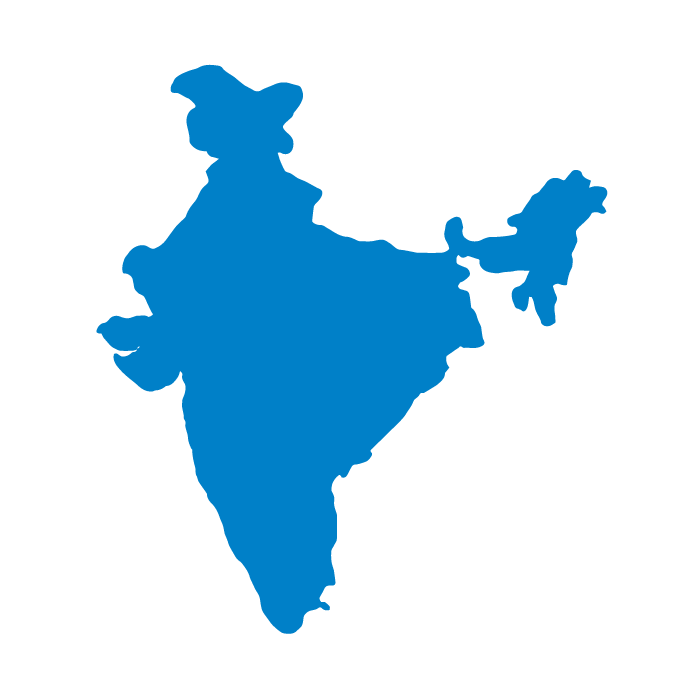
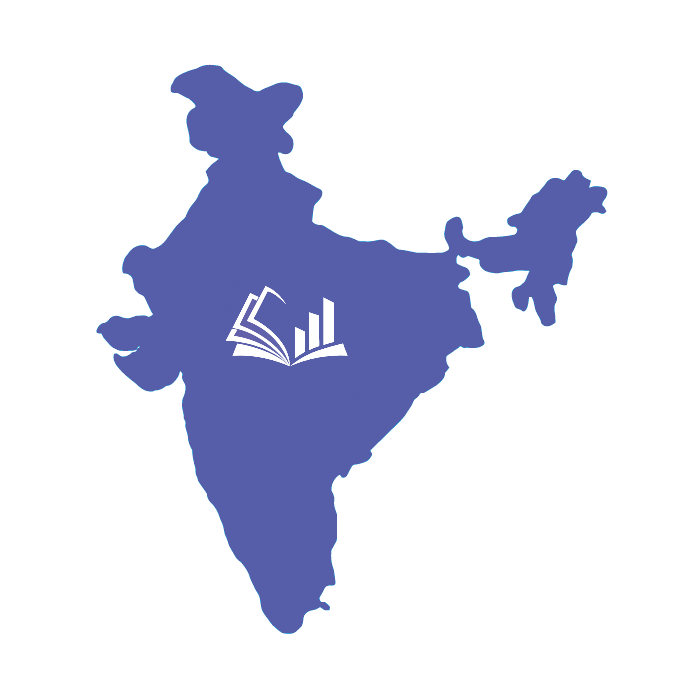
fixed all colors

Changed region(s): [[0.12, 0.09, 0.87, 0.9]]

diff --git a/assets/css/style.css b/assets/css/style.css
@@ -2,9 +2,9 @@
   COMMON css 
 ===========================*/
 @import url("https://fonts.googleapis.com/css?family=Poppins:400,700|Lato:300,400,700&display=swap");
-
 :root {
   --primary-color: #565da9;
+  --accent-color: #361cc1;
 }
 
 body {
@@ -151,16 +151,16 @@ p {
     linear,
     left top,
     right top,
-    from(#7451a6),
-    color-stop(50%, #7451a6),
-    to(#7451a6)
+    from(var(--primary-color)),
+    color-stop(50%, var(--accent-color)),
+    to(var(--primary-color))
   );
   background: linear-gradient(to right, #f2f2f2 0%, #f2f2f2 50%, #f2f2f2 100%);
   background-size: 200%;
 }
 
 .main-btn:hover {
-  color: #fff;
+  /* color: #fff; */
   background-position: right center;
 }
 
@@ -177,10 +177,13 @@ p {
     linear,
     left top,
     left bottom,
-    from(#fe8464),
-    to(#fe6e9a)
+    from(var(--primary-color)),
+    to(var(--accent-color))
   );
-  background: linear-gradient(#fe8464 0%, #fe6e9a 100%);
+  background: linear-gradient(
+    var(--primary-color) 0%,
+    var(--accent-color) 100%
+  );
   width: 150px;
   height: 5px;
   margin-bottom: 10px !important;
@@ -613,7 +616,7 @@ p {
 
 .navbar-nav .nav-item a:hover,
 .navbar-nav .nav-item a.active {
-  color: #565da9;
+  color: var(--primary-color);
 }
 
 @media only screen and (min-width: 768px) and (max-width: 991px),
@@ -633,15 +636,15 @@ p {
     linear,
     left top,
     right top,
-    from(#565da9),
-    color-stop(50%, #565da9),
-    to(#565da9)
+    from(var(--primary-color)),
+    color-stop(50%, var(--accent-color)),
+    to(var(--primary-color))
   );
   background: linear-gradient(
     to right,
-    #565da9be 0%,
-    #565da9 50%,
-    #565da9be 100%
+    var(--primary-color) 0%,
+    var(--accent-color) 50%,
+    var(--primary-color) 100%
   );
   background-size: 200%;
 }
@@ -661,7 +664,7 @@ p {
 
 .sticky .navbar-nav .nav-item a.active,
 .sticky .navbar-nav .nav-item a:hover {
-  color: #fe7a7b;
+  color: var(--primary-color);
 }
 
 .navbar-nav .nav-item a.dropdown-item {
@@ -882,7 +885,7 @@ p {
 }
 
 .single-services .services-content .services-title a:hover {
-  color: #361cc1;
+  color: var(--primary-color);
 }
 
 .single-services .services-content .text-container {
@@ -899,7 +902,7 @@ p {
   margin-top: 30px;
   font-size: 16px;
   font-weight: 400;
-  color: #fe7a7b;
+  color: var(--primary-color);
   -webkit-transition: all 0.3s ease-out 0s;
   transition: all 0.3s ease-out 0s;
 }
@@ -915,7 +918,7 @@ p {
 }
 
 .single-services:hover {
-  border-color: #fe7a7b;
+  border-color: var(--primary-color);
 }
 
 .single-services:hover .services-icon .shape {
@@ -982,11 +985,16 @@ p {
     linear,
     left top,
     right top,
-    from(#fe8464),
-    color-stop(50%, #fe6e9a),
-    to(#fe8464)
+    from(var(--primary-color)),
+    color-stop(50%, var(--accent-color)),
+    to(var(--primary-color))
   );
-  background: linear-gradient(to right, #fe8464 0%, #fe6e9a 50%, #fe8464 100%);
+  background: linear-gradient(
+    to right,
+    var(--primary-color) 0%,
+    var(--accent-color) 50%,
+    var(--primary-color) 100%
+  );
   background-size: 200%;
   height: 50px;
   line-height: 50px;
@@ -1058,7 +1066,7 @@ p {
   text-align: center;
   border-radius: 50%;
   background-color: #fff;
-  color: #fe8464;
+  color: var(--primary-color);
   position: absolute;
   top: 50%;
   left: 50%;
@@ -1137,10 +1145,13 @@ p {
     linear,
     left top,
     left bottom,
-    from(#33c8c1),
-    to(#119bd2)
+    from(var(--primary-color)),
+    to(var(--accent-color))
   );
-  background: linear-gradient(#33c8c1 0%, #119bd2 100%);
+  background: linear-gradient(
+    var(--primary-color) 0%,
+    var(--accent-color) 100%
+  );
 }
 
 .counter-wrapper .single-counter.counter-color-2::before {
@@ -1148,10 +1159,13 @@ p {
     linear,
     left top,
     left bottom,
-    from(#fe8464),
-    to(#fe6e9a)
+    from(var(--primary-color)),
+    to(var(--accent-color))
   );
-  background: linear-gradient(#fe8464 0%, #fe6e9a 100%);
+  background: linear-gradient(
+    var(--primary-color) 0%,
+    var(--accent-color) 100%
+  );
 }
 
 .counter-wrapper .single-counter.counter-color-3::before {
@@ -1303,11 +1317,16 @@ p {
     linear,
     left top,
     right top,
-    from(#fe8464),
-    color-stop(50%, #fe6e9a),
-    to(#fe8464)
+    from(var(--primary-color)),
+    color-stop(50%, var(--accent-color)),
+    to(var(--primary-color))
   );
-  background: linear-gradient(to right, #fe8464 0%, #fe6e9a 50%, #fe8464 100%);
+  background: linear-gradient(
+    to right,
+    var(--primary-color) 0%,
+    var(--accent-color) 50%,
+    var(--primary-color) 100%
+  );
   background-size: 200%;
 }
 
@@ -1404,7 +1423,7 @@ p {
 }
 
 .footer-about .social li a:hover {
-  color: #fe8464;
+  color: var(--primary-color);
 }
 
 .footer-title .title {
@@ -1447,7 +1466,7 @@ p {
 }
 
 .link-wrapper .link li a:hover {
-  color: #fe8464;
+  color: var(--primary-color);
 }
 
 .footer-contact .contact {
@@ -1484,7 +1503,7 @@ p {
 }
 
 .copyright-content a:hover {
-  color: #fe8464;
+  color: var(--primary-color);
 }
 
 /*===== BACK TO TOP =====*/
@@ -1501,11 +1520,16 @@ p {
     linear,
     left top,
     right top,
-    from(#fe8464),
-    color-stop(50%, #fe6e9a),
-    to(#fe8464)
+    from(var(--primary-color)),
+    color-stop(50%, var(--accent-color)),
+    to(var(--primary-color))
   );
-  background: linear-gradient(to right, #fe8464 0%, #fe6e9a 50%, #fe8464 100%);
+  background: linear-gradient(
+    to right,
+    var(--primary-color) 0%,
+    var(--accent-color) 50%,
+    var(--primary-color) 100%
+  );
   background-size: 200%;
   text-align: center;
   z-index: 99;
@@ -2284,5 +2308,23 @@ p {
 }
 
 .footer-copyright .social li a:hover {
-  color: #fe8464;
+  color: var(--primary-color);
+}
+
+.about-content .main-btn {
+  color: white;
+  transition: all 0.5s;
+}
+.about-content .main-btn:hover {
+  color: var(--primary-color);
+  background: white;
+  border: 1.5px solid var(--primary-color);
+}
+
+button[aria-expanded="true"] {
+  color: var(--primary-color);
+}
+
+.contact-us-submit {
+  background: var(--primary-color);
 }

diff --git a/index.html b/index.html
@@ -196,11 +196,10 @@
                   Investor Education
                 </p> -->
                 <a
-                  href="assets/brochure.pdf"
+                  href="#footer"
                   class="main-btn wow fadeInUp"
                   data-wow-duration="1.3s"
                   data-wow-delay="1.1s"
-                  download
                 >
                   Get Started
                 </a>
@@ -264,7 +263,9 @@
                   <b>General Public</b>
                   from Co-operative Housing Societies
                 </p>
-                <a href="javascript:void(0)" class="main-btn">Get Started</a>
+                <a href="assets/brochure.pdf" class="main-btn" download
+                  >Download Brochure</a
+                >
               </div>
               <!-- about content -->
             </div>
@@ -636,6 +637,9 @@
                     We conduct Financial Literacy Programs for students from
                     School, Colleges & Universities across India creating
                     financial and economic empowerment amongst them.
+                    <br />
+                    <br />
+                    <br />
                   </p>
                 </div>
                 <a class="more" href="javascript:void(0)"
@@ -676,6 +680,9 @@
                     We conduct Investor Education and awareness programs for
                     Corporates employees, Associations Members, General Public ,
                     College / School Faculties & Students
+                    <br />
+                    <br />
+                    <br />
                   </p>
                 </div>
                 <a class="more" href="javascript:void(0)"
@@ -885,7 +892,9 @@
                     ></textarea>
                   </div>
                   <div class="text-center mt-3">
-                    <button class="btn btn-success rounded-pill">
+                    <button
+                      class="btn btn-success rounded-pill contact-us-submit"
+                    >
                       Send Message
                     </button>
                   </div>
